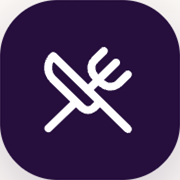
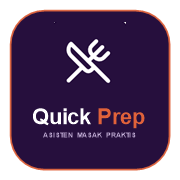
design(pwa): add distinct rounded card box container, app title QuickPrep, and eliminate splash screen masking slits

diff --git a/frontend/public/sw.js b/frontend/public/sw.js
@@ -1,5 +1,5 @@
 // QuickPrep Service Worker
-const CACHE_NAME = 'quickprep-v1.1.0';
+const CACHE_NAME = 'quickprep-v1.2.0';
 const STATIC_ASSETS = [
   '/',
   '/index.html',
@@ -12,7 +12,8 @@ const STATIC_ASSETS = [
   '/icons/icon-512x512.png',
   '/icons/icon-maskable-512x512.png',
   '/icons/icon-192x192.svg',
-  '/icons/icon-512x512.svg'
+  '/icons/icon-512x512.svg',
+  '/icons/icon-maskable-512x512.svg'
 ];
 
 // Install Event: Pre-cache App Shell & Static Assets
